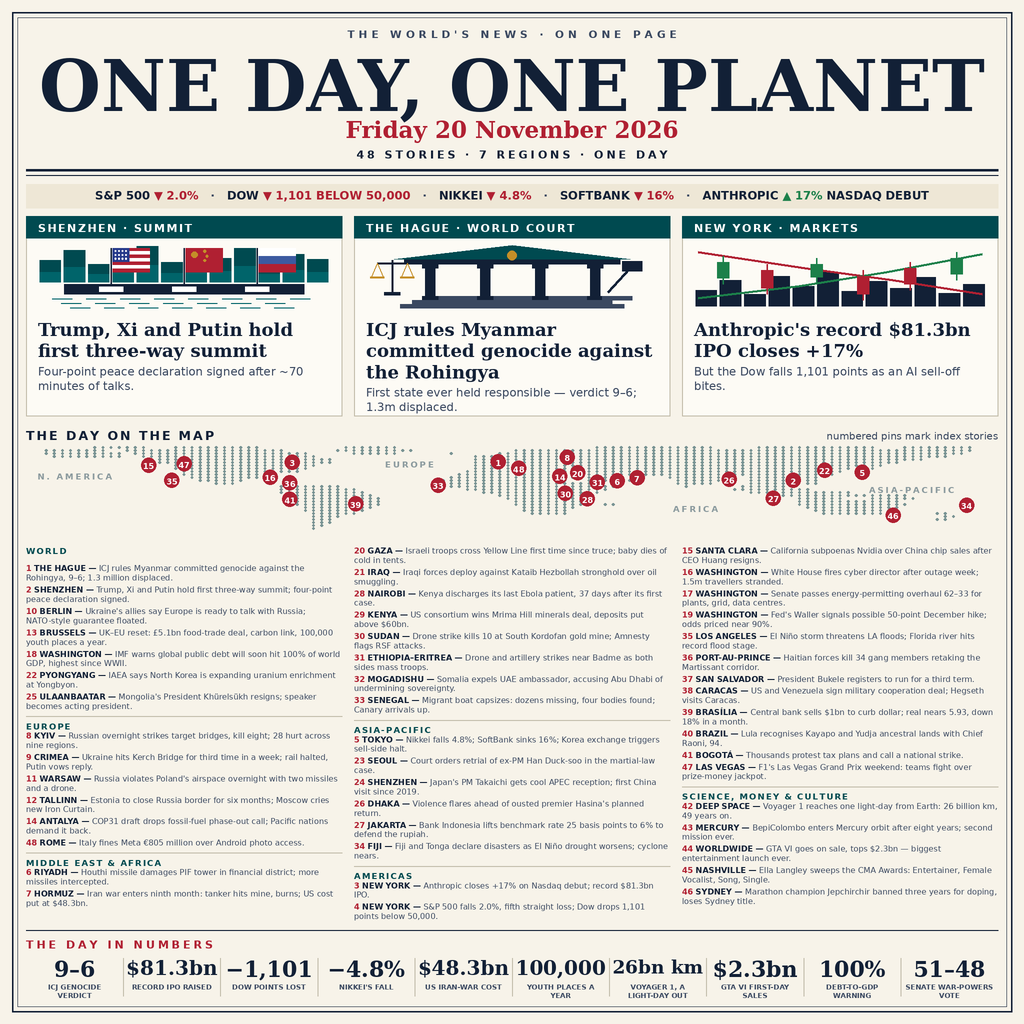
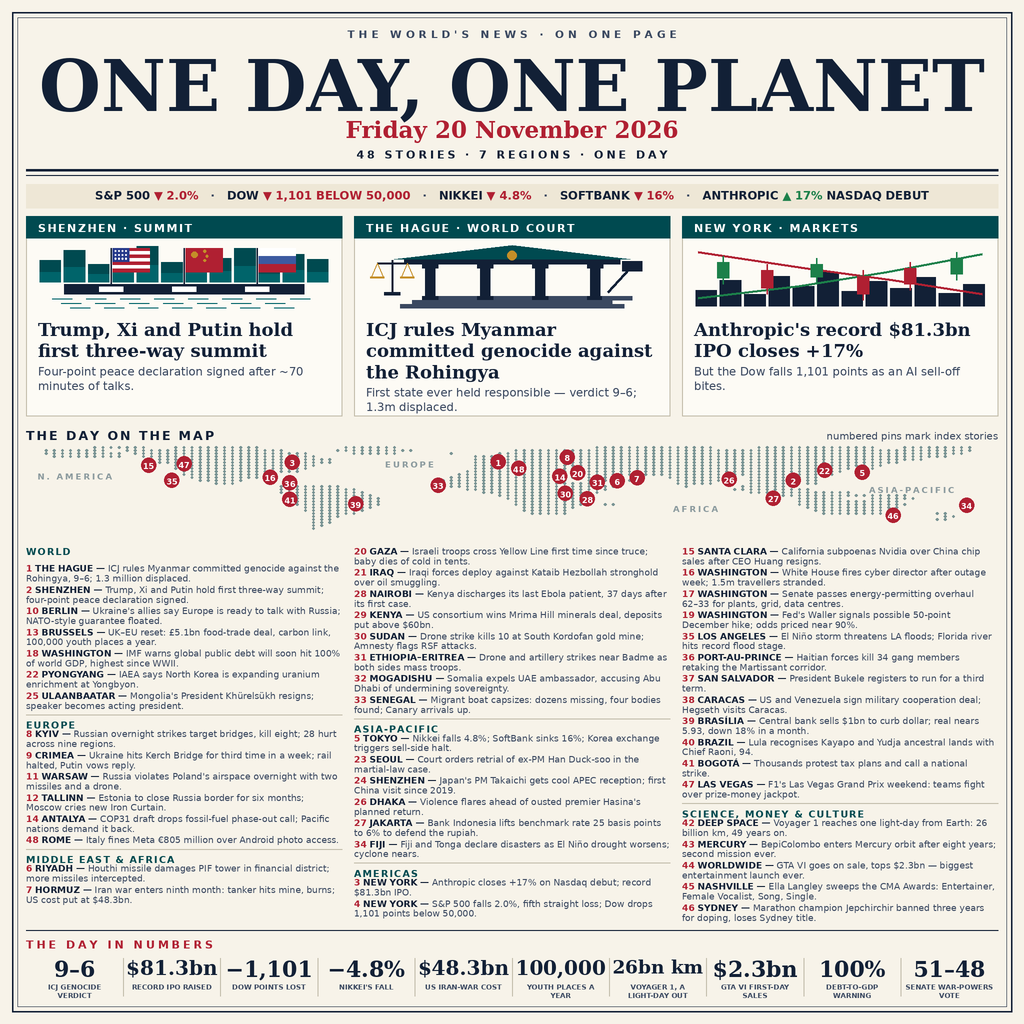
Index legibility: auto-fit now lands at 9px (was 8px)
Tighten index metrics so the larger size fits the same 380px band
with the same bottom margin as before (max column 377.6px, ending
~6px above the Day in Numbers rule):
- line leading 1.18 -> 1.10 (INDEX_LEADING, shared by block packing
  and story drawing)
- per-story gap 2.5 -> 1.4 (INDEX_STORY_GAP)
- group header block 7.5 + 1.28*size -> 6.0 + 1.24*size

entry.png regenerated: 1024x1024, 686196 bytes, deterministic
across runs; Pillow-blocked fallback reproduces it byte-for-byte.

Changed region(s): [[0.0, 0.5312, 0.9688, 0.9062]]

diff --git a/main.py b/main.py
@@ -431,16 +431,20 @@ def _wrap_story(p, words, size, col_w):
     return lines
 
 
+INDEX_LEADING = 1.10     # index line height as a multiple of font size
+INDEX_STORY_GAP = 1.4    # vertical gap after each index story
+
+
 def _index_blocks(p, size, col_w):
     """Return blocks: ('h', group) or ('s', lines) with heights."""
-    lh = size * 1.18
+    lh = size * INDEX_LEADING
     blocks = []
     for name, stories in GROUPS:
-        blocks.append(("h", name, 4.0 + size * 1.28 + 3.5))
+        blocks.append(("h", name, 6.0 + size * 1.24))
         for num, town, head in stories:
             words = _story_words(p, num, town, head, size)
             lines = _wrap_story(p, words, size, col_w)
-            blocks.append(("s", lines, len(lines) * lh + 2.5))
+            blocks.append(("s", lines, len(lines) * lh + INDEX_STORY_GAP))
     return blocks
 
 
@@ -468,7 +472,7 @@ def _pack_columns(blocks, avail_h):
 
 
 def _draw_story_lines(p, lines, x, y, size):
-    lh = size * 1.18
+    lh = size * INDEX_LEADING
     space_w = p.text_len(" ", SANS, size)
     for line in lines:
         cx = x
